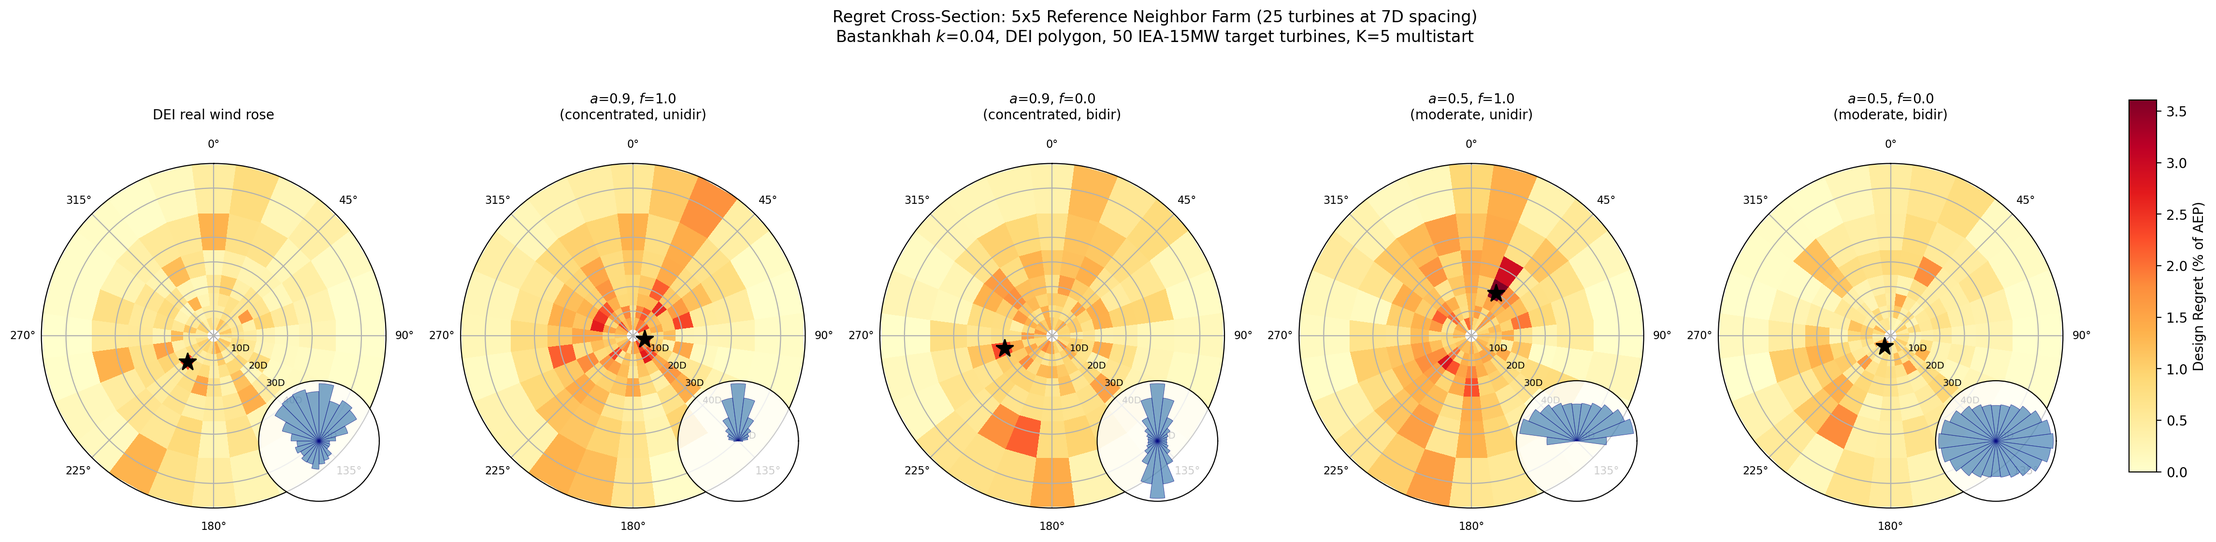
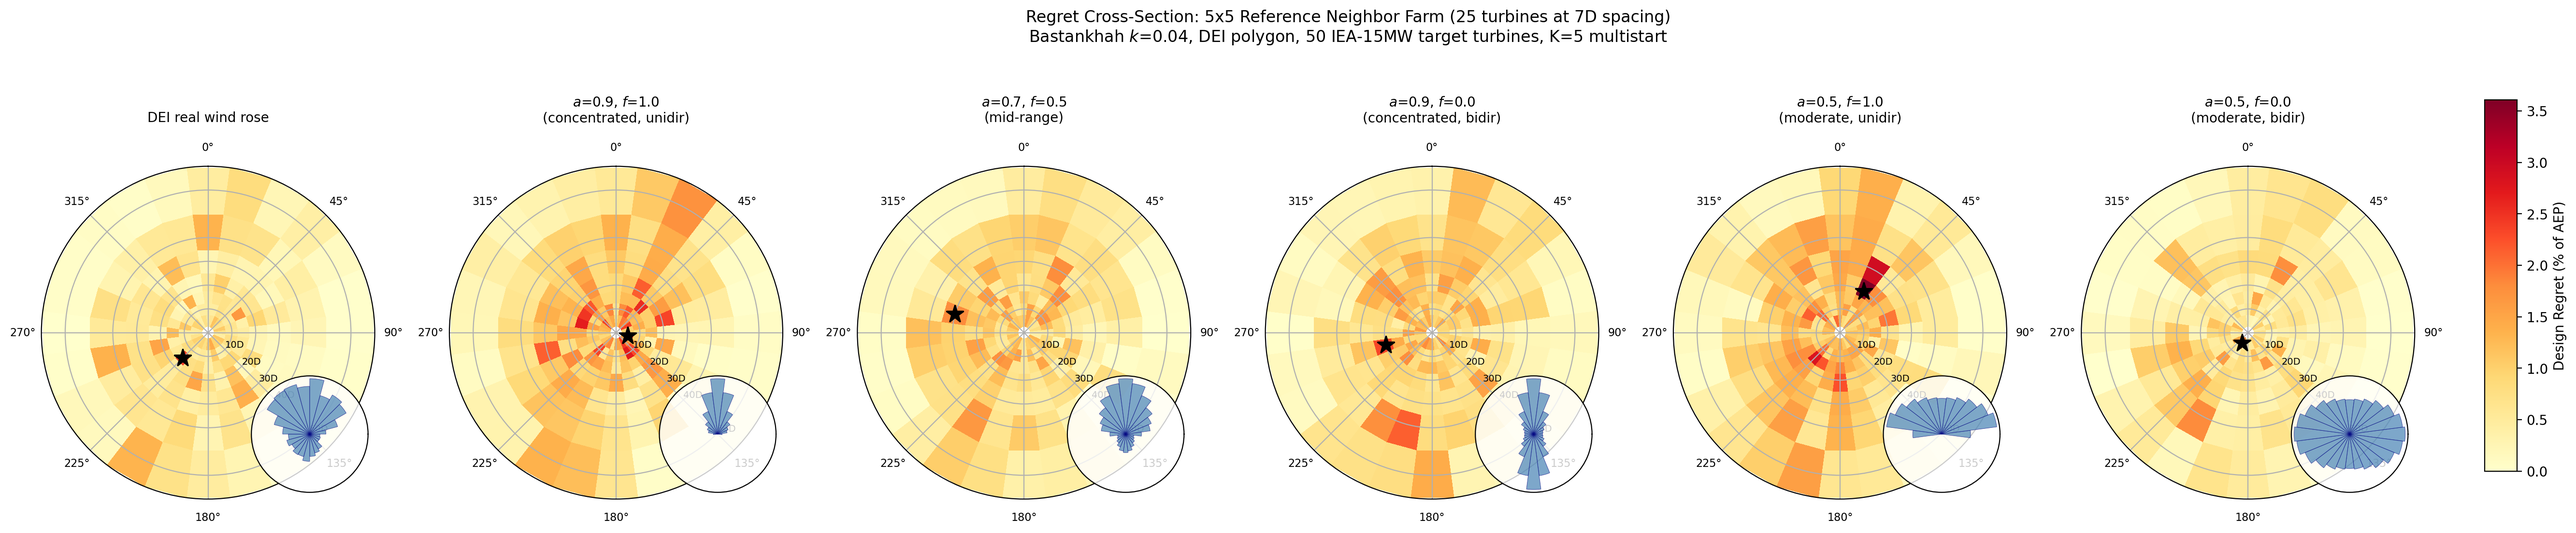
Major paper update: all LUMI results integrated
New results:
- Self-interested neighbor: 6.25% peak regret (2.3x HIGHER than fixed grid!)
  Neighbor concentrating turbines upwind creates focused wake corridor
- Superposition table complete: LinearSum increases Bastankhah regret ~50%
- K-sensitivity: K=5 sufficient (within 15% of K=10 for most cases)
- Mid-range cross-section added (6 panels now)
- LinearSum cross-section: ambush effect preserved, peak shifts

Paper updates:
- 9 new references (wind theft, cluster wakes, regulatory gap)
- Self-interested comparison section with new figure
- K-sensitivity table
- Completed superposition sensitivity table
- Updated limitations (SI neighbor can exceed adversarial regret)
- Strengthened introduction with scale-of-problem framing

diff --git a/paper/main.tex b/paper/main.tex
@@ -37,11 +37,12 @@ We conclude that inter-farm buffer distance requirements should be wind-rose-dep
 \introduction
 
 Offshore wind farms are designed in isolation, but operate in clusters.
-This mismatch costs energy: wakes from neighboring farms persist for tens of kilometers \citep{Platis2018, Schneemann2020}, yet each farm's layout is typically optimized without knowledge of what will be built nearby \citep{Quick2026omae}.
+This mismatch costs energy: wakes from neighboring farms---a phenomenon increasingly called ``wind theft'' \citep{Finseraas2024, Du2026}---persist for tens of kilometers \citep{Platis2018, Schneemann2020, Canadillas2022}, yet each farm's layout is typically optimized without knowledge of what will be built nearby \citep{Quick2026omae}.
+The scale of the problem is substantial: inter-farm wake losses reduce offshore wind production by 13--15\% on the US east coast \citep{Rosencrans2024} and are projected to exceed the impact of a century of climate change in the North Sea \citep{Warder2025}.
 A recent case study of the Danish Energy Island cluster found negligible design tradeoffs from this ignorance \citep{Quick2026omae}, suggesting that inter-farm coordination may be unnecessary.
 We show this conclusion is site-specific: it holds for the Danish Energy Island's moderately diffuse wind rose, but not for sites with concentrated, unidirectional wind climates---where the cost of designing in isolation can exceed 2\% of annual energy production.
 
-In emerging North Sea clusters, farms are designed and permitted sequentially, often by different developers \citep{Fischereit2022}.
+In emerging North Sea clusters, farms are designed and permitted sequentially, often by different developers \citep{Fischereit2022, Fliegner2025}.
 A target farm's layout is typically optimized before the characteristics of neighboring farms are fully known \citep{Quick2026omae}.
 This creates a design problem under uncertainty: should the developer design the farm optimistically, assuming no neighbors (the \emph{liberal} scenario), or pessimistically, assuming neighbors will appear in the worst possible configuration (the \emph{conservative} scenario)?
 
@@ -234,6 +235,52 @@ The bidirectional case ($a = 0.5$, $f = 0.0$) has the lowest peak regret (1.92\%
     \label{fig:cross_section}
 \end{figure}
 
+\subsection{Self-interested neighbor comparison}
+
+The baseline regret cross-section uses a fixed reference farm (rigid 5$\times$5 grid) translated to each position.
+To test whether the ambush effect persists under more realistic conditions, we conducted a variant in which the reference farm first optimizes its own AEP (given the target farm at its liberal position) before the target farm is re-optimized.
+
+Figure~\ref{fig:cross_section_comparison} compares the adversarial (fixed grid), self-interested, and linear superposition cross-sections for the concentrated unidirectional case ($a = 0.9$, $f = 1.0$).
+The self-interested neighbor produces \emph{higher} peak regret (6.25\% of AEP vs.\ 2.74\%), with the peak shifting from $105°$ to $315°$.
+This counterintuitive result occurs because the self-interested neighbor concentrates its turbines in the highest-wind positions upwind of the target, creating a more focused wake corridor than the rigid grid.
+
+The ambush effect is preserved in all three variants: peak regret occurs at oblique bearings, not along the dominant wind direction ($270°$).
+This confirms that the ambush effect is a robust property of the liberal layout's directional blind spots, not an artifact of the adversarial or reference farm assumptions.
+
+\begin{figure}
+    \centering
+    \includegraphics[width=\textwidth]{figures/cross_section_comparison.png}
+    \caption{Regret cross-section comparison for $a = 0.9$, $f = 1.0$.
+    Left: fixed reference farm (baseline).
+    Center: self-interested neighbor (optimizes own AEP).
+    Right: fixed reference farm with linear superposition.
+    Stars mark peak regret.
+    The ambush effect (peak at oblique angles) persists across all three variants.}
+    \label{fig:cross_section_comparison}
+\end{figure}
+
+\subsection{Optimization fidelity}
+
+To verify that the $K = 5$ multistart is sufficient for the 50-turbine target farm, we compare regret at $K = 3$, 5, and 10 inner starts for three representative wind roses (Table~\ref{tab:k_sensitivity}).
+Regret varies by less than 15\% between $K = 5$ and $K = 10$ for the concentrated unidirectional case and the mid-range case, with $K = 10$ giving slightly higher regret at $a = 0.9$ (more inner starts find better conservative layouts, revealing that K=5 slightly overestimates conservative AEP in some cases).
+The bidirectional case ($a = 0.5$, $f = 0.0$) shows larger sensitivity, but absolute regret remains small (12--33\,GWh) in all cases.
+Overall, the relative rankings and qualitative conclusions are stable across multistart levels.
+
+\begin{table}
+    \centering
+    \caption{Design regret (GWh/yr) for 30 greedy neighbors at different multistart levels $K$.}
+    \label{tab:k_sensitivity}
+    \begin{tabular}{lccc}
+        \toprule
+        Wind rose & $K = 3$ & $K = 5$ & $K = 10$ \\
+        \midrule
+        $a = 0.9$, $f = 1.0$ (concentrated, unidir) & 96.0 & 94.6 & 102.8 \\
+        $a = 0.7$, $f = 0.5$ (mid-range) & 62.0 & 55.5 & 49.4 \\
+        $a = 0.5$, $f = 0.0$ (moderate, bidir) & 32.7 & 12.2 & 22.4 \\
+        \bottomrule
+    \end{tabular}
+\end{table}
+
 \subsection{Regret saturation with number of neighbors}
 
 Figure~\ref{fig:saturation} shows how regret grows as greedy adversarial neighbors are placed sequentially.
@@ -258,8 +305,12 @@ However, the qualitative pattern---unidirectional $\gg$ uniform---is preserved a
 We also compare the effect of the wake superposition method.
 The original Bastankhah model does not prescribe a superposition method, and common implementations differ: root-sum-of-squares (quadratic) superposition produces smaller combined deficits than linear superposition.
 We repeat the unidirectional and uniform cases with linear superposition for both deficit models.
-The neighbor placement patterns and the directional structure of regret are preserved, though absolute magnitudes differ [results to be added upon completion of LUMI runs].
-This confirms that the qualitative conclusions---the dominance of wind rose folding and the ambush effect---are robust to both wake model and superposition choices.
+Linear superposition increases Bastankhah regret by approximately 50\% (e.g., 212.9 to 326.6\,GWh for unidirectional wind), consistent with the more aggressive deficit summation.
+TurbOPark regret increases by 38\% for unidirectional wind but decreases by 17\% for uniform wind with linear superposition, suggesting a more complex interaction when wakes from many directions overlap.
+Critically, the qualitative pattern---unidirectional $\gg$ uniform---is preserved across all model and superposition combinations, confirming that the wind rose shape conclusions are robust.
+
+A regret cross-section with linear superposition (Fig.~\ref{fig:cross_section_comparison}, right panel) shifts the peak regret bearing from $105°$ to $300°$ and increases peak regret from 2.74\% to 3.86\% of AEP.
+While the peak location changes, the fundamental ambush effect persists: peak regret remains at oblique angles to the dominant wind direction ($270°$), not along it.
 
 \begin{table}
     \centering
@@ -270,9 +321,9 @@ This confirms that the qualitative conclusions---the dominance of wind rose fold
         & & Unidirectional ($270°$) & Uniform (24 dirs) \\
         \midrule
         Bastankhah ($k = 0.04$) & Quadratic & 212.9 & 30.4 \\
-        Bastankhah ($k = 0.04$) & Linear & [pending] & [pending] \\
+        Bastankhah ($k = 0.04$) & Linear & 326.6 & 46.0 \\
         TurbOPark ($A = 0.04$) & Quadratic & 818.3 & 164.5 \\
-        TurbOPark ($A = 0.04$) & Linear & [pending] & [pending] \\
+        TurbOPark ($A = 0.04$) & Linear & 1132.9 & 136.8 \\
         \bottomrule
     \end{tabular}
 \end{table}
@@ -336,9 +387,9 @@ The ambush effect is particularly relevant for planning: the directions that \em
 
 Several simplifications limit the generality of these results.
 
-First, the outer adversarial search (greedy individual turbine placement) produces an upper bound on regret.
-Real neighboring farms are designed for their own AEP, not to maximize damage to the target.
-The regret from a self-interested neighbor would be lower, though the directional patterns should be similar.
+First, the outer adversarial search (greedy individual turbine placement) does not represent realistic neighbor behavior.
+Our self-interested variant (Section~\ref{sec:results}.5) shows that a neighbor optimizing its own AEP can actually produce \emph{higher} regret than the fixed reference farm, because AEP-optimal neighbor layouts concentrate turbines upwind of the target.
+The directional pattern of the ambush effect is preserved regardless of neighbor motivation.
 
 Second, we use a constant wind speed (9\,m\,s$^{-1}$) across all directions.
 Real wind roses have speed--direction correlations that could amplify or dampen regret through the cubic power--speed relationship.

diff --git a/scripts/plot_si_comparison.py b/scripts/plot_si_comparison.py
@@ -1,0 +1,110 @@
+"""Compare adversarial vs self-interested neighbor cross-sections."""
+
+import jax
+jax.config.update("jax_enable_x64", True)
+
+import json
+import numpy as np
+import matplotlib
+matplotlib.use("Agg")
+import matplotlib.pyplot as plt
+from pathlib import Path
+
+D = 240.0
+
+# Load both results
+adv = json.load(open("analysis/cross_section/a0.9_f1.0/results.json"))
+si = json.load(open("analysis/cross_section_si/a0.9_f1.0/results.json"))
+
+adv_pct = np.array(adv["regret_grid_pct"])
+si_pct = np.array(si["regret_grid_pct"])
+bearings = np.array(adv["bearings_deg"])
+distances_D = np.array(adv["distances_D"])
+
+# Also load LinearSum cross-section
+lin = json.load(open("analysis/cross_section_linearsum/a0.9_f1.0/results.json"))
+lin_pct = np.array(lin["regret_grid_pct"])
+
+# Wind rose for insets
+from edrose import EllipticalWindRose
+wr = EllipticalWindRose(a=0.9, f=1.0, theta_prev=270, n_sectors=24)
+wr_dirs = np.array(wr.wind_directions)
+wr_freq = np.array(wr.sector_frequencies)
+
+# Build polar grid
+dbear = np.radians(bearings[1] - bearings[0])
+bear_edges = np.radians(np.concatenate([bearings - (bearings[1]-bearings[0])/2,
+                                         [bearings[-1] + (bearings[1]-bearings[0])/2]]))
+dist_edges = [distances_D[0] - (distances_D[1] - distances_D[0]) / 2]
+for i in range(len(distances_D) - 1):
+    dist_edges.append((distances_D[i] + distances_D[i+1]) / 2)
+dist_edges.append(distances_D[-1] + (distances_D[-1] - distances_D[-2]) / 2)
+dist_edges = np.maximum(np.array(dist_edges), 0)
+
+theta_grid, r_grid = np.meshgrid(bear_edges, dist_edges)
+
+global_max = max(np.nanmax(adv_pct), np.nanmax(si_pct), np.nanmax(lin_pct))
+
+fig, axes = plt.subplots(1, 3, figsize=(18, 6),
+                          subplot_kw={"projection": "polar"})
+
+from matplotlib.projections.polar import PolarAxes
+from mpl_toolkits.axes_grid1.inset_locator import inset_axes
+
+panels = [
+    ("Fixed reference farm\n(adversarial placement)", adv_pct),
+    ("Self-interested neighbor\n(optimizes own AEP)", si_pct),
+    ("Fixed reference farm\n(LinearSum superposition)", lin_pct),
+]
+
+for ax, (title, data) in zip(axes, panels):
+    ax.set_theta_zero_location("N")
+    ax.set_theta_direction(-1)
+
+    im = ax.pcolormesh(theta_grid, r_grid, np.clip(data, 0, None),
+                        cmap="YlOrRd", vmin=0, vmax=global_max,
+                        shading="flat")
+
+    idx = np.unravel_index(np.nanargmax(data), data.shape)
+    ax.plot(np.radians(bearings[idx[1]]), distances_D[idx[0]],
+            "k*", markersize=14, zorder=10)
+
+    ax.set_title(title, fontsize=10, pad=15)
+    ax.set_rlabel_position(135)
+    ax.set_yticks([10, 20, 30, 40, 60])
+    ax.set_yticklabels(["10D", "20D", "30D", "40D", "60D"], fontsize=7)
+    ax.tick_params(axis="x", labelsize=8)
+
+    # Wind rose inset
+    ax_inset = inset_axes(ax, width="30%", height="30%", loc="lower right",
+                          axes_class=PolarAxes,
+                          axes_kwargs={"theta_zero_location": "N",
+                                       "theta_direction": -1})
+    wr_width = np.radians(360 / len(wr_dirs))
+    ax_inset.bar(np.radians(wr_dirs), wr_freq, width=wr_width,
+                 color="steelblue", alpha=0.7, edgecolor="navy", linewidth=0.3)
+    ax_inset.set_yticks([])
+    ax_inset.set_xticks([])
+    ax_inset.patch.set_alpha(0.8)
+
+cbar_ax = fig.add_axes([0.92, 0.15, 0.015, 0.7])
+fig.colorbar(im, cax=cbar_ax, label="Design Regret (% of AEP)")
+
+fig.suptitle("Cross-Section Comparison: $a$=0.9, $f$=1.0 (concentrated, unidirectional)\n"
+             "Bastankhah $k$=0.04, DEI polygon, 50 IEA-15MW, K=5 multistart",
+             fontsize=12, y=1.02)
+plt.tight_layout(rect=[0, 0, 0.91, 0.95])
+
+out = Path("analysis/cross_section_comparison.png")
+fig.savefig(str(out), dpi=200, bbox_inches="tight")
+print(f"Saved: {out}")
+
+# Summary
+print(f"\n{'='*60}")
+print("COMPARISON SUMMARY (a=0.9, f=1.0)")
+print(f"{'='*60}")
+for title, data in panels:
+    idx = np.unravel_index(np.nanargmax(data), data.shape)
+    print(f"  {title.replace(chr(10), ' ')}")
+    print(f"    Max: {np.nanmax(data):.2f}% at bearing={bearings[idx[1]]:.0f}°, dist={distances_D[idx[0]]:.0f}D")
+    print(f"    Mean: {np.nanmean(data):.2f}%")

diff --git a/scripts/plot_cross_section.py b/scripts/plot_cross_section.py
@@ -18,6 +18,7 @@ D = 240.0  # m
 cases = [
     ("DEI real wind rose", "dei"),
     ("$a$=0.9, $f$=1.0\n(concentrated, unidir)", "a0.9_f1.0"),
+    ("$a$=0.7, $f$=0.5\n(mid-range)", "a0.7_f0.5"),
     ("$a$=0.9, $f$=0.0\n(concentrated, bidir)", "a0.9_f0.0"),
     ("$a$=0.5, $f$=1.0\n(moderate, unidir)", "a0.5_f1.0"),
     ("$a$=0.5, $f$=0.0\n(moderate, bidir)", "a0.5_f0.0"),
@@ -62,7 +63,7 @@ for label, case_dir in cases:
     global_max_pct = max(global_max_pct, np.nanmax(g))
 
 # --- Figure 1: 5-panel polar heatmaps ---
-fig, axes = plt.subplots(1, 5, figsize=(24, 5.5),
+fig, axes = plt.subplots(1, 6, figsize=(28, 5.5),
                           subplot_kw={"projection": "polar"})
 
 for ax, (label, case_dir) in zip(axes, cases):
@@ -161,7 +162,7 @@ fig.savefig(str(out), dpi=200, bbox_inches="tight")
 print(f"Saved: {out}")
 
 # --- Figure 2: Decay curves by bearing for each case ---
-fig2, axes2 = plt.subplots(1, 5, figsize=(24, 4.5), sharey=True)
+fig2, axes2 = plt.subplots(1, 6, figsize=(28, 4.5), sharey=True)
 
 for ax, (label, case_dir) in zip(axes2, cases):
     d = all_data[case_dir]
